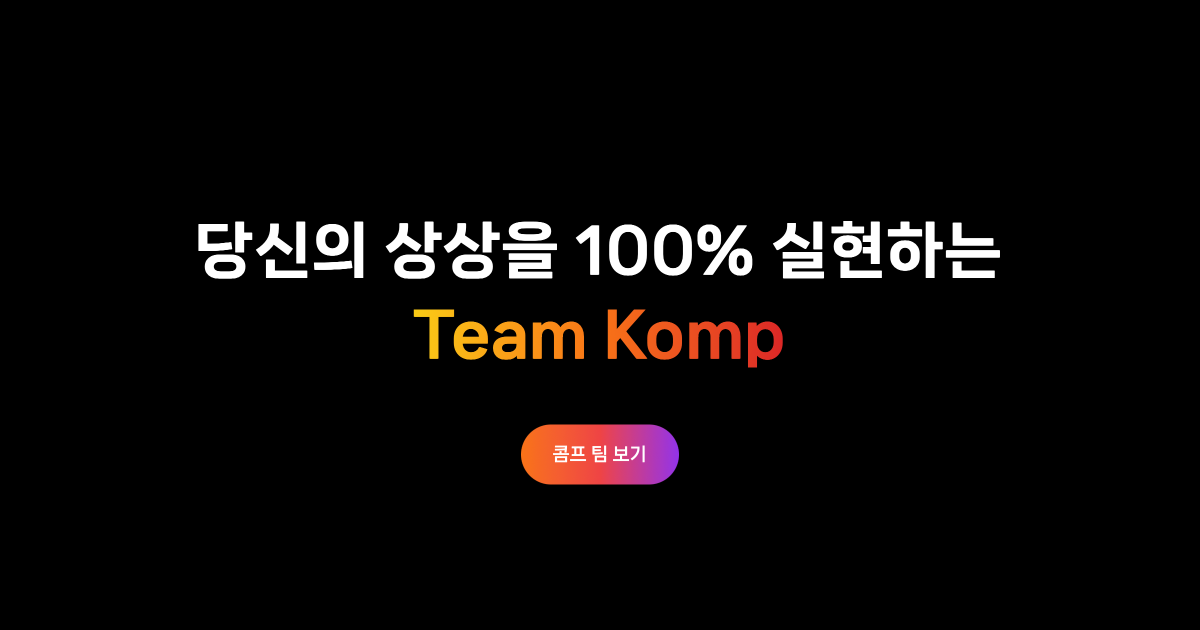
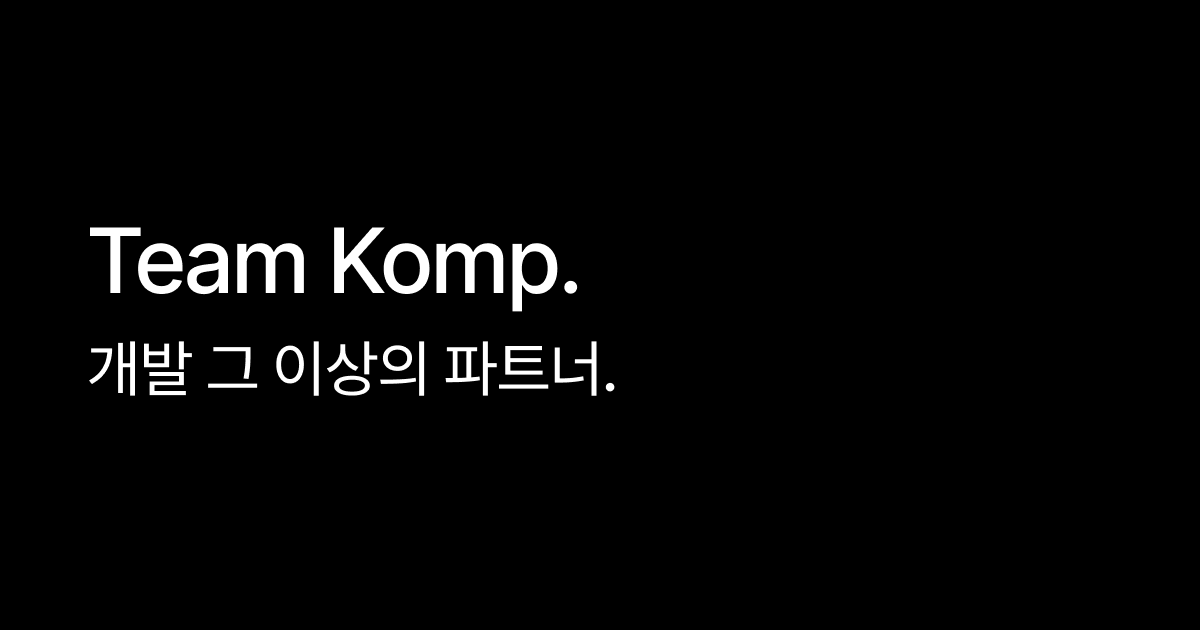
9-반응형-opengraph-수정

Changed region(s): [[0.0617, 0.3317, 0.8325, 0.6333], [0.4317, 0.6635, 0.5858, 0.7841]]

diff --git a/app/layout.tsx b/app/layout.tsx
@@ -11,15 +11,15 @@ const inter = Inter({
 });
 
 export const metadata = {
-  title: "Team Komp | KAIST 출신 두 개발자의 신속하고 정확한 개발 외주 서비스",
-  description: "KAIST 출신 두 개발자의 신속하고 정확한 개발 외주 서비스",
+  title: "Team Komp. 개발 그 이상의 파트너",
+  description: "당신의 상상을 실현할 파트너, 팀콤프",
   icons: {
     icon: "/favicon.png",
   },
   openGraph: {
-    title: "Team Komp | 당신의 상상을 실현할 최고의 개발 파트너",
+    title: "Team Komp. 개발 그 이상의 파트너",
     description:
-      "아이디어를 실현할 완벽한 솔루션을 제공하는 신뢰할 수 있는 개발 파트너",
+      "당신의 상상을 실현할 파트너, 팀콤프",
     type: "website",
     images: [
       {

diff --git a/app/portfolio/PortfolioCard.tsx b/app/portfolio/PortfolioCard.tsx
@@ -30,7 +30,7 @@ export default function PortfolioCard({
     <div className="flex flex-col md:flex-row w-full mb-6">
       {/* 이미지 */}
       <div
-        className="w-full md:w-1/3 aspect-square bg-[#111] p-10 md:p-16"
+        className="w-full md:w-1/3 aspect-square bg-[#111] p-10 md:p-16 flex items-center justify-center"
         style={{ minHeight: 200 }}
       >
         {imageUrl ? (

diff --git a/app/about/page.tsx b/app/about/page.tsx
@@ -48,7 +48,7 @@ export default function AboutPage() {
         </div>
 
         <p className="text-sm">
-          팀콤프의 실제 작업물이 궁금하다면, {" "}
+          팀콤프의 실제 작업물이 궁금하다면,{" "}
           <a href="/portfolio" className="underline hover:text-gray-300">
             Portfolio
           </a>
